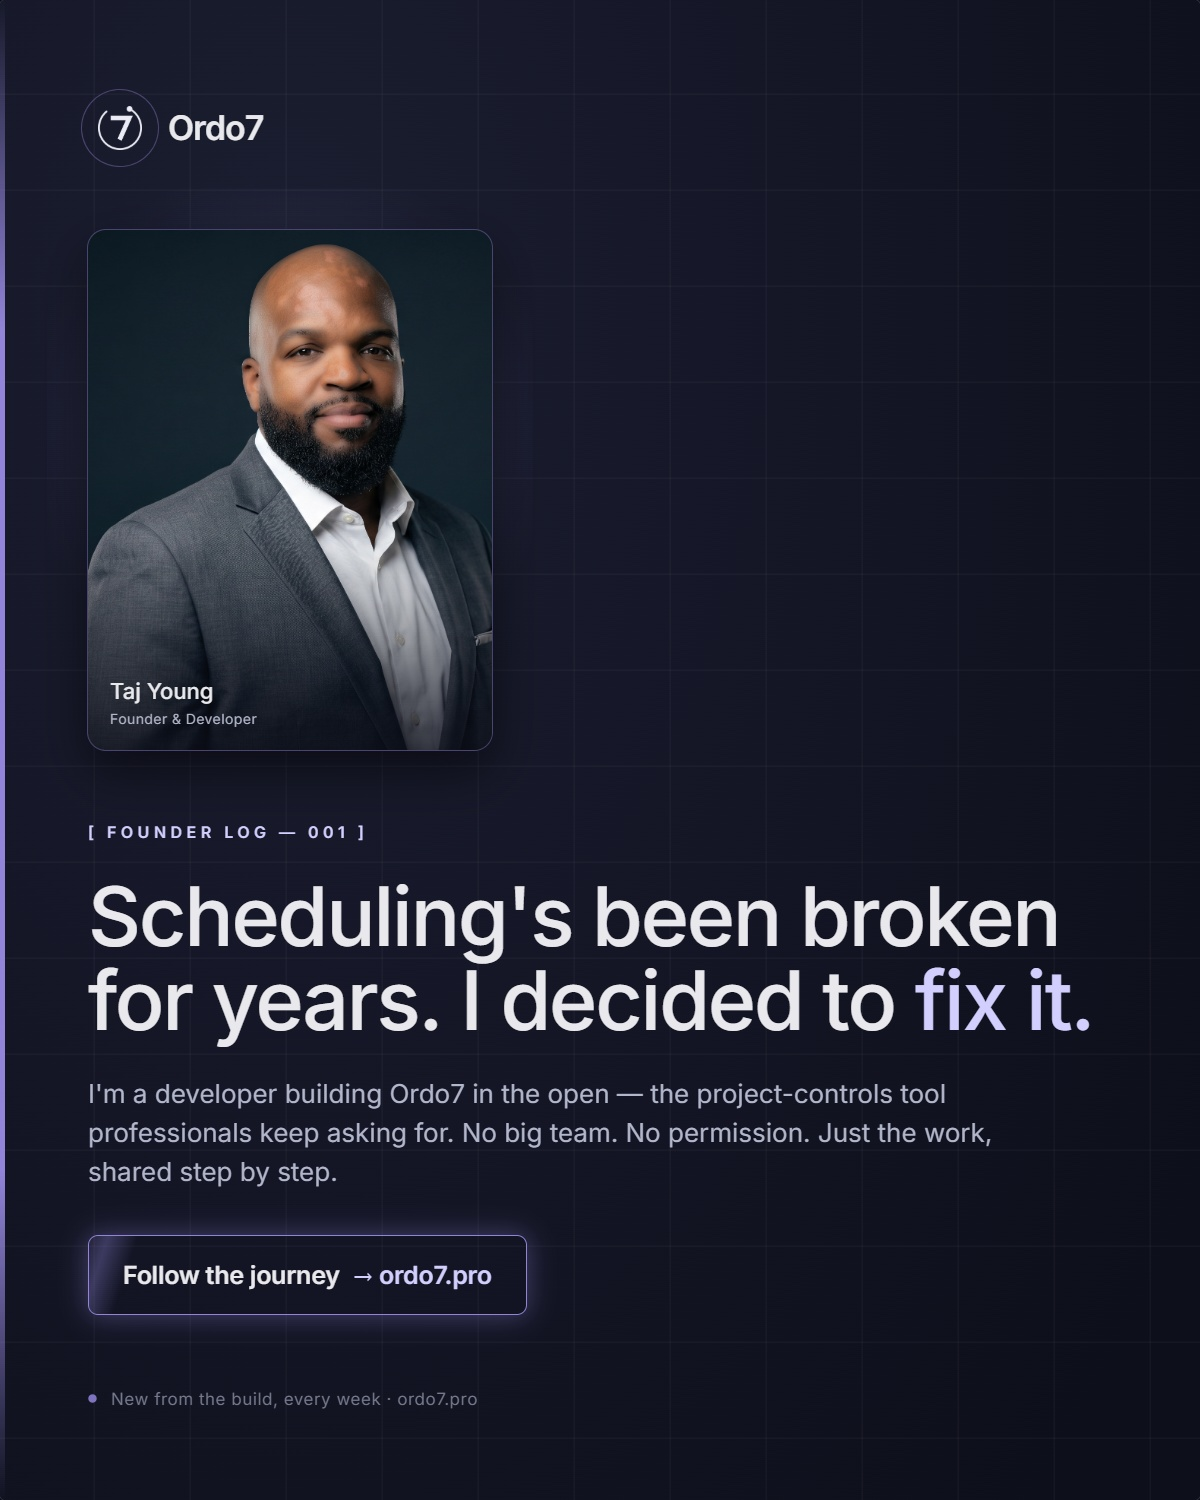
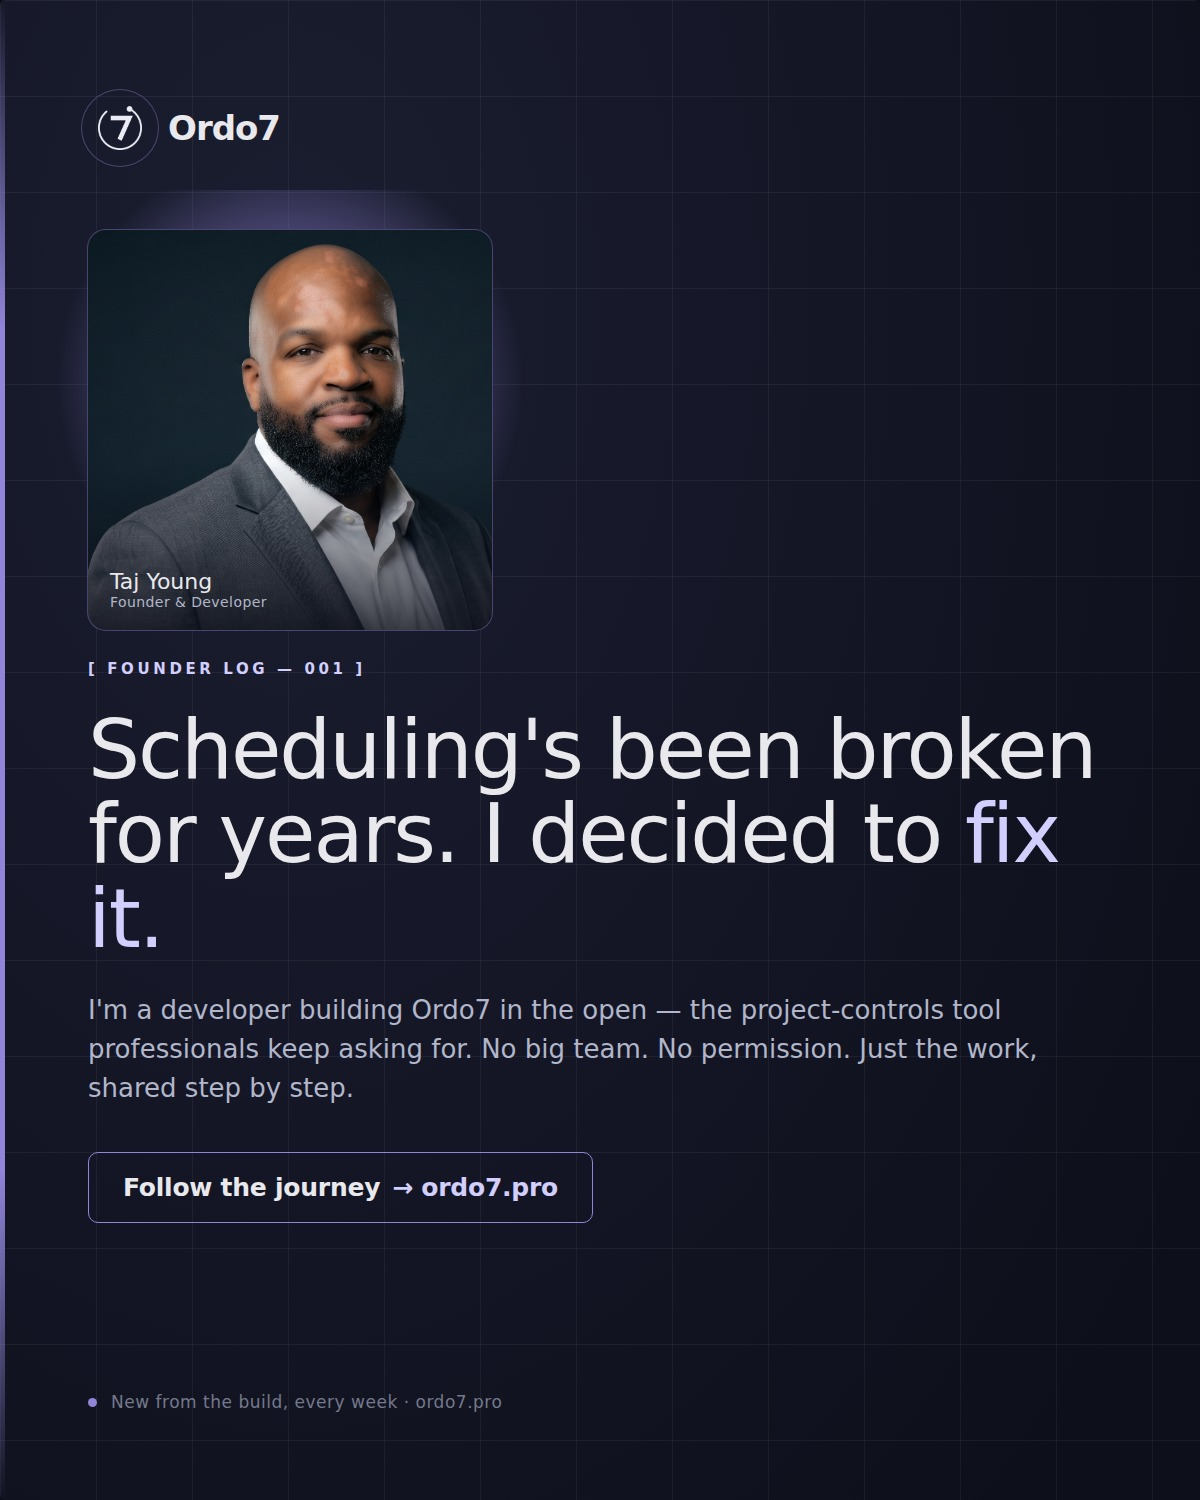
Add Founder Log render pipeline (Playwright + Nocturne templates)
Parameterized HTML templates for the 1200x1500 feed card and 1200x627
cover card, plus a Node/Playwright script that fills them from a JSON
data file and screenshots each to a JPG. Any day's graphic is now one
command away instead of manual recreation. Re-rendered Founder Log
001/002 through the pipeline as a regression check against the
original hand-built posts.

diff --git a/schedule-health/marketing-assets/linkedin-founder-log/render/render.js b/schedule-health/marketing-assets/linkedin-founder-log/render/render.js
@@ -1,0 +1,122 @@
+#!/usr/bin/env node
+// Renders Founder Log cards (Nocturne design system) from a JSON data file to JPGs.
+//
+// Usage:
+//   node render.js data.json                # renders every entry in data.json
+//   node render.js data.json --only=003,007  # renders only the listed episode numbers
+//
+// data.json is an array of entries:
+//   {
+//     "day": 3,                                   // required, drives the zero-padded episode number
+//     "headline": "Your schedule says green. **Reality says red.**",
+//     "body": "Plain body copy.",
+//     "footer": "New from the build, every week · ordo7.pro",
+//     "portraitSide": "left" | "right",            // default "right"
+//     "types": ["feed"] | ["feed","cover"],         // default ["feed"]
+//     "headlineSize": 82,                           // optional override (feed default 82, cover default 46)
+//     "kicker": "[ FOUNDER LOG — 003 ]"             // optional, derived from `day` if omitted
+//   }
+//
+// Bold markers (**text**) in `headline` are converted to the accent-purple span used
+// throughout the design system. `body` and `headline` are otherwise treated as plain text
+// (HTML-escaped) so content authors never need to hand-write markup.
+
+const fs = require('fs');
+const path = require('path');
+const { chromium } = require('playwright');
+
+const RENDER_DIR = __dirname;
+const OUT_DIR = path.join(RENDER_DIR, '..', 'renders');
+
+function escapeHtml(str) {
+  return String(str)
+    .replace(/&/g, '&amp;')
+    .replace(/</g, '&lt;')
+    .replace(/>/g, '&gt;');
+}
+
+function formatHeadline(raw) {
+  // split on **bold** and wrap survivors in an accent span, escaping everything else
+  return escapeHtml(raw).replace(/\*\*(.+?)\*\*/g, (_, inner) => `<span class="accent">${inner}</span>`);
+}
+
+function episodeNum(day) {
+  return String(day).padStart(3, '0');
+}
+
+function fillTemplate(templateStr, entry, { headlineDefault }) {
+  const ep = episodeNum(entry.day);
+  const kicker = entry.kicker || `[ FOUNDER LOG — ${ep} ]`;
+  const portraitSide = entry.portraitSide === 'left' ? 'left' : 'right';
+  const headlineSize = entry.headlineSize || headlineDefault;
+
+  return templateStr
+    .replace(/\{\{KICKER\}\}/g, kicker)
+    .replace(/\{\{HEADLINE\}\}/g, formatHeadline(entry.headline))
+    .replace(/\{\{HEADLINE_SIZE\}\}/g, headlineSize)
+    .replace(/\{\{BODY\}\}/g, escapeHtml(entry.body))
+    .replace(/\{\{FOOTER\}\}/g, escapeHtml(entry.footer || 'New from the build, every week · ordo7.pro'))
+    .replace(/\{\{PORTRAIT_LEFT_DISPLAY\}\}/g, portraitSide === 'left' ? 'block' : 'none')
+    .replace(/\{\{PORTRAIT_RIGHT_DISPLAY\}\}/g, portraitSide === 'right' ? 'block' : 'none');
+}
+
+async function renderCard(browser, html, width, height, outPath) {
+  // write the filled template next to the templates so its relative
+  // "../assets/..." image paths resolve when loaded via file://
+  const tmpPath = path.join(RENDER_DIR, `.tmp-${process.pid}-${Date.now()}.html`);
+  fs.writeFileSync(tmpPath, html);
+  const page = await browser.newPage({ viewport: { width, height } });
+  try {
+    await page.goto(`file://${tmpPath}`, { waitUntil: 'networkidle' });
+    await page.locator('#card').screenshot({ path: outPath, type: 'jpeg', quality: 92 });
+  } finally {
+    await page.close();
+    fs.unlinkSync(tmpPath);
+  }
+}
+
+async function main() {
+  const args = process.argv.slice(2);
+  const dataPath = args[0];
+  if (!dataPath) {
+    console.error('Usage: node render.js <data.json> [--only=003,007]');
+    process.exit(1);
+  }
+  const onlyArg = args.find((a) => a.startsWith('--only='));
+  const only = onlyArg ? new Set(onlyArg.slice('--only='.length).split(',')) : null;
+
+  const entries = JSON.parse(fs.readFileSync(path.resolve(dataPath), 'utf8'));
+  const feedTemplate = fs.readFileSync(path.join(RENDER_DIR, 'template-feed.html'), 'utf8');
+  const coverTemplate = fs.readFileSync(path.join(RENDER_DIR, 'template-cover.html'), 'utf8');
+
+  fs.mkdirSync(OUT_DIR, { recursive: true });
+
+  const browser = await chromium.launch();
+  try {
+    for (const entry of entries) {
+      const ep = episodeNum(entry.day);
+      if (only && !only.has(ep)) continue;
+      const types = entry.types && entry.types.length ? entry.types : ['feed'];
+
+      if (types.includes('feed')) {
+        const html = fillTemplate(feedTemplate, entry, { headlineDefault: 82 });
+        const out = path.join(OUT_DIR, `founder-log-${ep}-feed-1200x1500.jpg`);
+        await renderCard(browser, html, 1200, 1500, out);
+        console.log(`wrote ${out}`);
+      }
+      if (types.includes('cover')) {
+        const html = fillTemplate(coverTemplate, entry, { headlineDefault: 46 });
+        const out = path.join(OUT_DIR, `founder-log-${ep}-cover-1200x627.jpg`);
+        await renderCard(browser, html, 1200, 627, out);
+        console.log(`wrote ${out}`);
+      }
+    }
+  } finally {
+    await browser.close();
+  }
+}
+
+main().catch((err) => {
+  console.error(err);
+  process.exit(1);
+});

diff --git a/schedule-health/marketing-assets/linkedin-founder-log/render/template-feed.html b/schedule-health/marketing-assets/linkedin-founder-log/render/template-feed.html
@@ -1,0 +1,72 @@
+<!DOCTYPE html>
+<html>
+<head>
+<meta charset="utf-8">
+<style>
+  @font-face {
+    font-family: 'Inter';
+    src: local('Inter');
+  }
+  html,body { margin:0; padding:0; background:#0e1019; }
+  @keyframes gridDrift { from { background-position:0 0,0 0; } to { background-position:96px 96px,96px 96px; } }
+  .kickr{font-size:15px;font-weight:600;letter-spacing:.24em;text-transform:uppercase;color:#d2cefd}
+  .wm{font-weight:600;letter-spacing:-.03em;line-height:.9;color:#e9e9ed}
+  .accent{color:#d2cefd}
+  * { font-family:'Inter',system-ui,sans-serif; }
+</style>
+</head>
+<body>
+
+<div id="card" style="position:relative;width:1200px;height:1500px;overflow:hidden;border-radius:6px;background:radial-gradient(90% 110% at 24% 20%,#1b1e30 0%,#141626 52%,#0d0f1a 100%);color:#e9e9ed">
+  <div style="position:absolute;inset:0;background-image:linear-gradient(#ffffff0d 1px,transparent 1px),linear-gradient(90deg,#ffffff0d 1px,transparent 1px);background-size:96px 96px"></div>
+  <div style="position:absolute;left:0;top:0;bottom:0;width:5px;background:linear-gradient(180deg,transparent,#9184d9 22%,#9184d9 78%,transparent)"></div>
+
+  <!-- wordmark -->
+  <div style="position:absolute;left:88px;top:96px;display:flex;align-items:center;gap:16px">
+    <div style="position:relative;width:64px;height:64px;display:flex;align-items:center;justify-content:center">
+      <div style="position:absolute;inset:-6px;border-radius:50%;box-shadow:0 0 0 1px #4a4470"></div>
+      <img src="../assets/mark.png" alt="Ordo7" style="height:44px;width:auto">
+    </div>
+    <span class="wm" style="font-size:34px">Ordo7</span>
+  </div>
+
+  <!-- portrait: left variant -->
+  <div data-portrait="left" style="display:{{PORTRAIT_LEFT_DISPLAY}};position:absolute;left:88px;top:230px;width:404px;height:400px">
+    <div style="position:absolute;inset:-40px;border-radius:24px;background:radial-gradient(circle at 50% 40%,#9184d9 0%,transparent 62%)"></div>
+    <div style="position:absolute;inset:0;border-radius:18px;overflow:hidden;box-shadow:0 0 0 1px #4a4470;background:#0d0f1a url(../assets/ceo-portrait.png) 50% 0%/cover no-repeat"></div>
+    <div style="position:absolute;left:0;right:0;bottom:0;height:42%;border-radius:0 0 18px 18px;background:linear-gradient(0deg,#0d0f1acc,transparent)"></div>
+    <div style="position:absolute;left:22px;bottom:20px">
+      <div style="font-size:22px;font-weight:500;color:#e9e9ed">Taj Young</div>
+      <div style="font-size:14px;color:#b2b6ca;letter-spacing:.03em">Founder &amp; Developer</div>
+    </div>
+  </div>
+
+  <!-- portrait: right variant -->
+  <div data-portrait="right" style="display:{{PORTRAIT_RIGHT_DISPLAY}};position:absolute;right:96px;top:110px;width:340px;height:440px">
+    <div style="position:absolute;inset:-36px;border-radius:22px;background:radial-gradient(circle at 50% 40%,#9184d9 0%,transparent 62%)"></div>
+    <div style="position:absolute;inset:0;border-radius:16px;overflow:hidden;box-shadow:0 0 0 1px #4a4470;background:#0d0f1a url(../assets/ceo-portrait.png) 50% 0%/cover no-repeat"></div>
+    <div style="position:absolute;left:0;right:0;bottom:0;height:44%;border-radius:0 0 16px 16px;background:linear-gradient(0deg,#0d0f1acc,transparent)"></div>
+    <div style="position:absolute;left:20px;bottom:18px">
+      <div style="font-size:20px;font-weight:500;color:#e9e9ed">Taj Young</div>
+      <div style="font-size:13px;color:#b2b6ca;letter-spacing:.03em">Founder &amp; Developer</div>
+    </div>
+  </div>
+
+  <!-- text block: fixed top so it clears both a 1-line and 2-line headline consistently across all 90 days -->
+  <div style="position:absolute;left:88px;top:660px;width:1024px;display:flex;flex-direction:column;gap:30px">
+    <div class="kickr">{{KICKER}}</div>
+    <div style="font-size:{{HEADLINE_SIZE}}px;font-weight:500;line-height:1.03;letter-spacing:-.025em">{{HEADLINE}}</div>
+    <div style="font-size:26px;color:#b2b6ca;line-height:1.5;max-width:980px">{{BODY}}</div>
+    <div style="margin-top:14px;position:relative;display:inline-flex;align-self:flex-start;overflow:hidden;border:1px solid #9184d9;border-radius:10px">
+      <div style="display:inline-flex;align-items:center;gap:12px;padding:20px 34px;color:#e9e9ed;font-size:25px;font-weight:600;letter-spacing:-.01em">Follow the journey <span class="accent">→ ordo7.pro</span></div>
+    </div>
+  </div>
+
+  <div style="position:absolute;left:88px;bottom:88px;display:flex;align-items:center;gap:14px">
+    <span style="width:9px;height:9px;border-radius:50%;background:#9184d9"></span>
+    <span style="font-size:17px;color:#75798c;letter-spacing:.03em">{{FOOTER}}</span>
+  </div>
+</div>
+
+</body>
+</html>

diff --git a/schedule-health/marketing-assets/linkedin-founder-log/render/template-cover.html b/schedule-health/marketing-assets/linkedin-founder-log/render/template-cover.html
@@ -1,0 +1,48 @@
+<!DOCTYPE html>
+<html>
+<head>
+<meta charset="utf-8">
+<style>
+  html,body { margin:0; padding:0; background:#0e1019; }
+  .kickr{font-size:13px;font-weight:600;letter-spacing:.28em;text-transform:uppercase;color:#d2cefd}
+  .wm{font-weight:600;letter-spacing:-.03em;line-height:.9;color:#e9e9ed}
+  .accent{color:#d2cefd}
+  * { font-family:'Inter',system-ui,sans-serif; }
+</style>
+</head>
+<body>
+
+<div id="card" style="position:relative;width:1200px;height:627px;overflow:hidden;border-radius:6px;background:radial-gradient(90% 150% at 78% 30%,#1b1e30 0%,#141626 52%,#0d0f1a 100%);color:#e9e9ed">
+  <div style="position:absolute;inset:0;background-image:linear-gradient(#ffffff0d 1px,transparent 1px),linear-gradient(90deg,#ffffff0d 1px,transparent 1px);background-size:72px 72px"></div>
+  <div style="position:absolute;left:0;top:0;bottom:0;width:5px;background:linear-gradient(180deg,transparent,#9184d9 22%,#9184d9 78%,transparent)"></div>
+
+  <div style="position:absolute;left:56px;top:44px;display:flex;align-items:center;gap:13px">
+    <div style="position:relative;width:52px;height:52px;display:flex;align-items:center;justify-content:center">
+      <div style="position:absolute;inset:-5px;border-radius:50%;box-shadow:0 0 0 1px #4a4470"></div>
+      <img src="../assets/mark.png" alt="Ordo7" style="height:36px;width:auto">
+    </div>
+    <span class="wm" style="font-size:28px">Ordo7</span>
+  </div>
+
+  <div style="position:absolute;right:56px;top:82px;width:300px;height:462px">
+    <div style="position:absolute;inset:-34px;border-radius:22px;background:radial-gradient(circle at 50% 40%,#9184d9 0%,transparent 62%)"></div>
+    <div style="position:absolute;inset:0;border-radius:16px;overflow:hidden;box-shadow:0 0 0 1px #4a4470;background:#0d0f1a url(../assets/ceo-portrait.png) 50% 0%/cover no-repeat"></div>
+    <div style="position:absolute;left:0;right:0;bottom:0;height:42%;border-radius:0 0 16px 16px;background:linear-gradient(0deg,#0d0f1acc,transparent)"></div>
+    <div style="position:absolute;left:18px;bottom:16px">
+      <div style="font-size:18px;font-weight:500;color:#e9e9ed">Taj Young</div>
+      <div style="font-size:12px;color:#b2b6ca;letter-spacing:.03em">Founder &amp; Developer</div>
+    </div>
+  </div>
+
+  <div style="position:absolute;left:60px;top:50%;transform:translateY(-46%);width:640px;display:flex;flex-direction:column;gap:20px">
+    <div class="kickr">{{KICKER}}</div>
+    <div style="font-size:{{HEADLINE_SIZE}}px;font-weight:500;line-height:1.05;letter-spacing:-.025em">{{HEADLINE}}</div>
+    <div style="font-size:18px;color:#b2b6ca;line-height:1.5;max-width:520px">{{BODY}}</div>
+    <div style="margin-top:6px;position:relative;display:inline-flex;align-self:flex-start;overflow:hidden;border:1px solid #9184d9;border-radius:10px">
+      <div style="display:inline-flex;align-items:center;gap:10px;padding:14px 24px;color:#e9e9ed;font-size:18px;font-weight:600;letter-spacing:-.01em">Follow the journey <span class="accent">→ ordo7.pro</span></div>
+    </div>
+  </div>
+</div>
+
+</body>
+</html>

diff --git a/schedule-health/marketing-assets/linkedin-founder-log/render/README.md b/schedule-health/marketing-assets/linkedin-founder-log/render/README.md
@@ -1,0 +1,47 @@
+# Founder Log render pipeline
+
+Turns a data file into pixel-consistent Nocturne-design-system JPGs. Any day's graphic is one command away — no manual recreation in a design tool.
+
+## Usage
+
+```bash
+cd schedule-health/marketing-assets/linkedin-founder-log/render
+NODE_PATH=/opt/node22/lib/node_modules PLAYWRIGHT_BROWSERS_PATH=/opt/pw-browsers node render.js example-data.json
+```
+
+Renders every entry in the data file to `../renders/founder-log-<episode>-<type>-<size>.jpg`. Pass `--only=003,007` to render a subset by episode number.
+
+`example-data.json` reproduces Founder Log 001 (portrait left, feed + cover) and 002 (portrait right, feed only) — the two hand-built reference posts — as a regression check: re-run it any time the templates change and diff the output against what's already committed in `../renders/`.
+
+## Data file format
+
+An array of entries:
+
+```json
+{
+  "day": 3,
+  "headline": "Your schedule says green. **Reality says red.**",
+  "body": "Plain body copy, HTML-escaped automatically.",
+  "footer": "New from the build, every week · ordo7.pro",
+  "portraitSide": "left",
+  "types": ["feed", "cover"],
+  "headlineSize": 82,
+  "kicker": "[ FOUNDER LOG — 003 ]"
+}
+```
+
+- `day` (required) drives the zero-padded episode number (`3` → `003`) and the default kicker.
+- `headline` — wrap the accent phrase in `**double asterisks**`; everything else is plain text.
+- `body`, `footer` — plain text.
+- `portraitSide` — `"left"` or `"right"` (default `"right"`).
+- `types` — which formats to render: `"feed"` (1200×1500, always) and/or `"cover"` (1200×627, for blog/article link previews). Default `["feed"]`.
+- `headlineSize`, `kicker` — optional overrides; usually leave these to the defaults.
+
+## Templates
+
+- `template-feed.html` — 1200×1500 (4:5) LinkedIn feed post.
+- `template-cover.html` — 1200×627 (1.91:1) link/article cover, used for blog cross-posts.
+
+Both are plain HTML with `{{TOKEN}}` placeholders filled by `render.js` — no build step. The text block sits at a fixed vertical position (not tuned per-post) so 1-line and 2-line headlines both render consistently across all 90 days without manual adjustment.
+
+Source of truth for the design tokens (colors, type scale, spacing) is `../README.md` (the original Nocturne design handoff) — if the two ever disagree, the handoff doc wins and these templates should be corrected to match.
